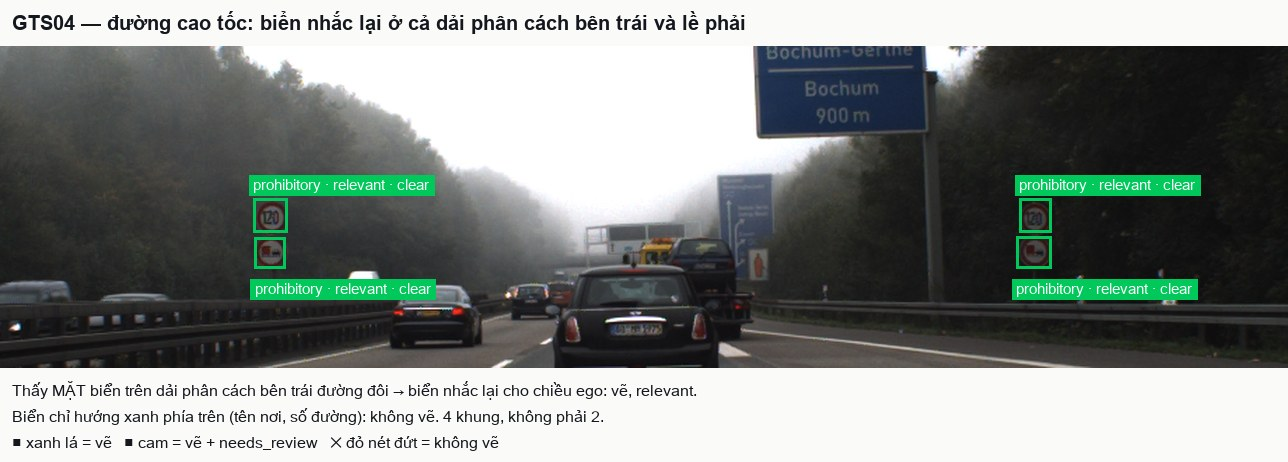
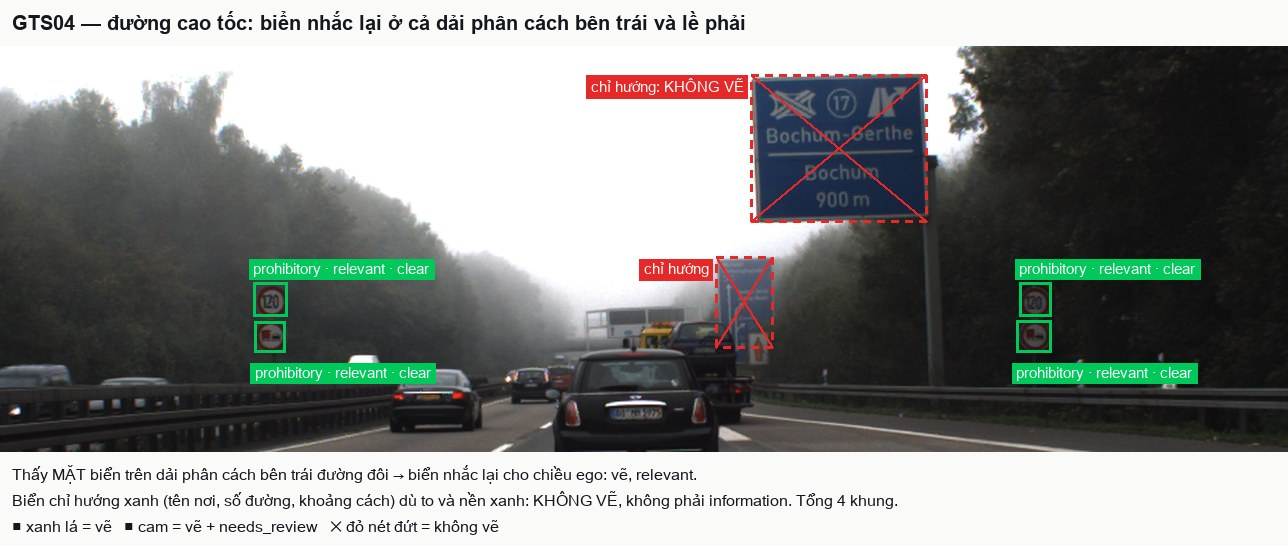
Day 9 project submission

diff --git a/guideline-challenge/project/02_guideline.md b/guideline-challenge/project/02_guideline.md
@@ -1,6 +1,6 @@
 # Annotation guideline — Gắn nhãn biển báo giao thông theo nhóm chức năng
 
-**Version:** v2
+**Version:** v3
 
 <!--
 v0 = chưa có bản nháp. Đổi dòng Version ở trên thành v1 khi xong bản nháp đầu, v2 sau calibration, v3 sau blind
@@ -97,7 +97,8 @@ gom theo chức năng để không phụ thuộc quốc gia.
    đặt độc lập ở đường cong → `supplementary`.
 2. Hình **bát giác**, tam giác **đỉnh hướng xuống**, hoặc **hình thoi** → `priority`.
 3. Có **viền đỏ tròn**, hoặc là **tròn trắng có vạch chéo đen/xám** → `prohibitory` (viền đỏ thắng nền xanh). Tấm chia
-   làn chứa vòng tròn viền đỏ cũng vào đây.
+   làn chứa vòng tròn viền đỏ cũng vào đây. Dòng này **chỉ áp cho hình tròn**: biển STOP bát giác đỏ và tam giác
+   nhường đường viền đỏ đã dừng ở dòng 2 (`priority`), dù có nhiều màu đỏ.
 4. **Nền xanh** (tròn, hoặc chữ nhật trong danh sách `mandatory` ở 4.1), kể cả khi có **vạch chéo đỏ** (hết hiệu lệnh)
    → `mandatory`. Biển bắt đầu/hết khu dân cư cũng vào đây dù có chữ tên nơi.
 5. Tam giác **đỉnh hướng lên**, viền đỏ (nền trắng hoặc vàng) → `danger`.
@@ -108,6 +109,9 @@ gom theo chức năng để không phụ thuộc quốc gia.
    trắng khác → `mandatory`; nền vàng chữ đen → `danger`; nền xanh chữ trắng → `information` nếu không phải chỉ hướng.
 9. Không khớp dòng nào ở trên, hoặc nhìn không rõ hình/màu → `unknown` và bật `needs_review`.
 
+**Ba biển màu đỏ dễ nhầm:** bát giác đỏ (STOP) → `priority`; tam giác đỉnh xuống viền đỏ (nhường đường) →
+`priority`; tròn viền đỏ → `prohibitory`. Đếm cạnh trước khi nhìn màu.
+
 Dùng **hình dạng trước, màu sau**. Màu dễ sai khi lóa, tối, phai; hình dạng ổn định hơn. Hai tấm chữ nhật xanh khó
 phân biệt `mandatory` với `information` (ví dụ R.411 hướng đi từng làn và I.407 đường một chiều): phân vân thì chọn
 nhóm nghiêng tới nhất và bật `needs_review`.
@@ -116,6 +120,11 @@ nhóm nghiêng tới nhất và bật `needs_review`.
 
 **Ego** là xe gắn camera. **Làn ego** là làn nằm dưới giữa mép dưới ảnh (camera đặt giữa xe), xác định bằng vạch kẻ
 đường hai bên điểm đó. **Đường đi của ego** là làn ego đi thẳng tới trước; bài này không biết ego sẽ rẽ hay không.
+
+**Giả định cố định:** ảnh tĩnh không cho biết ego rẽ hay đi thẳng, nên **luôn giả định ego đi thẳng theo làn hiện
+tại**. Biển đặt trên đường đi thẳng đó (bên phải, bên trái, phía trên, trên đảo ngay trước ego) → xét theo bảng dưới.
+Biển chỉ nằm trên nhánh rẽ (góc đường nhánh, quay mặt vào nhánh) → `not_relevant` nếu thấy rõ nó quay vào nhánh,
+không thì `uncertain` + `needs_review`. Không tự đoán ego sẽ rẽ vào nhánh nào.
 
 Nguyên tắc gốc (QCVN 41:2024 Điều 15): biển nguy hiểm và biển chỉ dẫn có hiệu lực trên **mọi làn của chiều xe chạy**;
 biển cấm và biển hiệu lệnh áp dụng cho mọi làn **hoặc chỉ một số làn** nếu biển cho biết như vậy. Do đó: biển thuộc
@@ -186,6 +195,7 @@ nhánh, ở phía bên kia đường, biển tạm công trường (trên giá c
 | Tình huống | Cách làm |
 |---|---|
 | Chỉ là một **chấm màu**, không nhận ra được là tấm biển (thường cạnh dưới khoảng 12 px) | **Không vẽ** |
+| Không chắc có dưới 12 px không | Vẽ thử khung ôm vật đó, xem kích thước khung trong CVAT (rê chuột / bảng thông tin object); cạnh ngắn dưới 12 px thì xoá khung. Đo trên ảnh gốc, không ước lượng bằng mắt khi đang zoom |
 | Nhận ra là **tấm biển**, thấy rõ hình và màu | Vẽ khung, chọn nhóm theo 4.2, `visibility = clear` |
 | Nhận ra là tấm biển nhưng **không rõ hình hoặc màu** (nhỏ, xa, mờ) | Vẽ khung, `unknown`, `visibility = poor`, bật `needs_review` |
 | **Bị che dưới khoảng 1/4** | Vẽ khung phần thấy, chọn nhóm, `visibility = clear` |
@@ -242,7 +252,7 @@ Ví dụ dùng ảnh split `example` và `calibration` (không dùng ảnh blind
 |---|---|---|---|
 | GTS06 | Biển tròn viền đỏ "30" bên phải đường ego, **hai tấm phụ** bên dưới (mũi tên phạm vi + khoảng cách; giờ áp dụng); đèn giao thông bị cắt ở mép trên phải | 3 khung riêng: `prohibitory`, `supplementary`, `supplementary`; cả ba `relevant`, `clear`. Khung biển chính không lấy tấm phụ và cột. Đèn: không vẽ | 2, 3, 4.2 (dòng 1, 3), 4.3 (biển phụ theo biển chính), 5 |
 | GTS05 | Góc phố: biển vuông xanh người đi bộ và biển tròn "30" ở góc đường nhánh bên trái; hai tấm xám trên cột bên phải là **mặt sau** biển; biển quán cà phê, biển tên phố | 2 khung: `information` và `prohibitory`, cả hai `uncertain` (không rõ ego đi thẳng hay rẽ vào đường nhánh), `clear`, bật `needs_review`. Mặt sau biển, biển quán, biển tên phố: không vẽ | 4.2 (dòng 3, 6), 4.3 (dòng 9), 5 |
-| GTS04 | Cao tốc có sương mù; cặp biển "120" + cấm xe tải vượt ở **cả** dải phân cách bên trái và lề phải; biển chỉ hướng xanh phía trên | 4 khung `prohibitory`, tất cả `relevant`, `clear`. Biển chỉ hướng: không vẽ | 2, 4.2 (dòng 3, 7), 4.3 (dòng 8) |
+| GTS04 | Cao tốc có sương mù; cặp biển "120" + cấm xe tải vượt ở **cả** dải phân cách bên trái và lề phải; biển chỉ hướng xanh phía trên | 4 khung `prohibitory`, tất cả `relevant`, `clear`. Hai tấm chỉ hướng xanh (tên nơi "Bochum", số lối ra, "900 m"): **không vẽ**, dù to, rõ và nền xanh | 2, 4.2 (dòng 3, 7), 4.3 (dòng 8) |
 | GTS03 | Ngã tư phố: hình thoi vàng; tam giác người đi bộ; biển tròn "20" kèm tấm mũi tên rẽ bên dưới; biển tròn xanh mũi tên phía trái | `priority` (hình thoi), `danger` (tam giác), `prohibitory` ("20"), `supplementary` (tấm mũi tên, khung riêng), `mandatory` (tròn xanh). Không dồn biển lạ vào một nhóm chung | 2, 4.2 (dòng 1–5) |
 | GTS07 | Cầu đang thi công, đường ướt; một chấm tròn đỏ khoảng 10 px ở giữa ảnh; hai tấm vuông nhỏ bên trái, nhận ra là tấm biển nhưng không đọc được; rào chắn sọc đỏ trắng bên phải | Chấm đỏ: không vẽ. Hai tấm vuông: mỗi tấm một khung `unknown`, `uncertain`, `poor`, bật `needs_review`. Rào chắn: không vẽ | 5, 6, 4.4 |
 
@@ -252,7 +262,7 @@ Ví dụ dùng ảnh split `example` và `calibration` (không dùng ảnh blind
 
 ![GTS07 — biển rất nhỏ và vật không phải biển](guideline_assets/ex_GTS07_bien_nho.jpg)
 
-![GTS04 — biển nhắc lại ở cả hai bên đường](guideline_assets/ex_GTS04_bien_nhac_lai.jpg)
+![GTS04 — biển nhắc lại ở cả hai bên đường, tấm chỉ hướng không vẽ](guideline_assets/ex_GTS04_bien_nhac_lai.jpg)
 
 Các tình huống chưa có ảnh ví dụ (nhường đường, biển dừng, biển chỉ hướng xếp chồng, biển bị che) dùng bảng 4.1,
 thứ tự 4.2 và hai sơ đồ ở mục 4.
@@ -279,6 +289,10 @@ thứ tự 4.2 và hai sơ đồ ở mục 4.
 14. **Đánh `not_relevant` cho biển bên trái đường.** Biển có thể đặt bổ sung bên trái hoặc trên cao cho cùng chiều
     (QCVN 41:2024 Điều 16.2); vị trí trái/phải một mình không đủ để kết luận.
 15. **Bỏ sót biển nhắc lại bên trái** trên đường đôi / cao tốc (GTS04): quét cả dải phân cách giữa, không chỉ lề phải.
+16. **Chọn `prohibitory` cho biển STOP vì biển màu đỏ.** Bát giác (STOP) và tam giác đỉnh xuống (nhường đường) luôn là
+    `priority` (4.2 dòng 2). Đây là lỗi critical: hệ thống sẽ không biết phải dừng.
+17. **Gọi cụm biển chỉ hướng xếp chồng là `information`.** Tấm có tên nơi, số đường, khoảng cách tới nơi → không vẽ,
+    kể cả khi nền xanh và rất to (GTS04). `information` chỉ dành cho tấm có **ký hiệu** trong danh sách 4.1.
 
 ## Self-QC trước khi export
 
@@ -288,5 +302,7 @@ Kiểm từng ảnh trước khi export; còn sai một dòng thì sửa rồi m
 - [ ] Khung `sign_group = unknown` thì `visibility` là `partial` hoặc `poor`, và `needs_review` bật.
 - [ ] Khung `ego_relevant = uncertain` thì `needs_review` bật.
 - [ ] Biển đường nhánh, biển bị che, biển mờ đã đổi khỏi mặc định `relevant` / `clear` nếu cần (4.3, 4.4).
+- [ ] Ảnh ngược sáng, lóa, ban đêm, sương mù dày: mọi khung bị ảnh hưởng có `visibility` là `poor`, không để `clear`.
+- [ ] Mọi biển bát giác / tam giác đỉnh xuống có `sign_group = priority`.
 - [ ] Đã quét cả lề phải, dải phân cách / lề trái, phía trên đường và phía xa ở cỡ gốc.
 - [ ] Biển phụ là khung riêng; khung biển chính không lấy cột hay tấm phụ.

diff --git a/guideline-challenge/project/07_blind_handoff/peer_feedback.md b/guideline-challenge/project/07_blind_handoff/peer_feedback.md
@@ -3,21 +3,43 @@
 Phần 1 do **nhóm peer** trả lời (gửi kèm file export). Phần 2 do **nhóm owner** điền. Thay mọi placeholder mới
 là xong (gate G5).
 
-- **Nhóm peer:** TODO
-- **Người label blind:** TODO
+- **Nhóm peer:** nhóm Traffic Light (bài đèn giao thông: trạng thái màu + relevance), cặp peer với DeadlineDodgers
+- **Người label blind:** an.holyann, an271220059_ (export `peer_output/annotations-2.xml`, 5 ảnh GTS09, GTS18, GTS23,
+  GTS26, GTS27)
 
 ## 1. Peer trả lời
 
-1. Rule nào rõ nhất / giúp quyết định nhanh nhất? TODO
-2. Rule nào mơ hồ hoặc phải tự suy diễn? TODO
-3. Sample nào khiến guideline "vỡ"? TODO
-4. Attribute / default nào trong CVAT dễ gây thao tác sai? TODO
-5. Một thay đổi cụ thể giúp annotator mới ít hỏi hơn? TODO
+1. **Rule nào rõ nhất / giúp quyết định nhanh nhất?** Quy tắc nhận dạng nhóm biển theo hình học và màu sắc (Mục 4.1
+   & 4.2) rất rõ ràng: tam giác đỉnh lên là danger, tam giác đỉnh xuống / hình thoi là priority, viền đỏ là
+   prohibitory. Nguyên tắc "viền đỏ luôn thắng nền xanh" và "hình dạng trước, màu sắc sau" giúp quyết định sign_group
+   cực kỳ nhanh và dứt khoát.
+2. **Rule nào mơ hồ hoặc phải tự suy diễn?** Quy tắc xác định ego_relevant (Mục 4.3) tại các nút giao có góc nhìn chéo
+   hoặc đường nhánh: người vẽ không biết xe sẽ đi thẳng hay rẽ nên rất khó phân định dứt khoát giữa relevant,
+   not_relevant hay phải chọn uncertain. Ngoài ra, ranh giới kích thước biển quá xa (dưới 12 px thì bỏ qua, còn trên
+   12 px mờ thì gán unknown) vẫn mang tính cảm tính khi zoom ảnh.
+3. **Sample nào khiến guideline "vỡ"?** Ảnh có cụm biển tên địa danh/chỉ hướng xếp chồng nhau (như cụm biển
+   Dortmund/Hattingen): nếu người vẽ không đọc rất kỹ mục loại trừ (Mục 5) thì rất dễ nhầm cụm này thành biển chỉ dẫn
+   information. Tương tự, các biển ở góc đường nhánh rất dễ gây bất đồng về việc xe có rẽ vào đó hay không.
+4. **Attribute / default nào trong CVAT dễ gây thao tác sai?** Giá trị mặc định của ego_relevant để sẵn là relevant
+   và visibility để sẵn là clear rất dễ khiến người vẽ quên không đổi sang not_relevant (khi gặp biển đường nhánh)
+   hoặc quên chọn poor (khi biển ở xa/bị mờ).
+5. **Một thay đổi cụ thể giúp annotator mới ít hỏi hơn?** Nên bổ sung thêm 1 hình ảnh ví dụ trực quan trong Mục 9
+   gạch chéo đỏ cụm biển tên địa danh xếp chồng (chỉ hướng đường) để người vẽ thấy ngay là KHÔNG VẼ mà không cần phải
+   hỏi lại. Đồng thời, có thể cân nhắc để ego_relevant dạng bắt buộc chọn thay vì để mặc định là relevant để tránh lỗi
+   bỏ quên.
 
 ## 2. Owner phân loại
 
-Owner không tranh luận để bảo vệ guideline. Mỗi feedback và mỗi decision peer làm sai được xếp vào một hướng xử lý.
+Kết quả chấm (`transfer_score.csv`, `gts_summary.md`): **GTS 84.8** — D 12/14, C 2/3 (1 critical escape), G 1/1,
+0 câu hỏi trong blind window. Owner không tranh luận để bảo vệ guideline. Mỗi feedback và mỗi decision peer làm sai
+được xếp vào một hướng xử lý.
 
 | Feedback / decision sai | Nguyên nhân (guideline gap / data ambiguity / execution error) | Xử lý (accept + revise / reject with evidence / add escalation rule) | Bằng chứng |
 |---|---|---|---|
-| TODO | TODO | TODO | TODO |
+| **GTS23 d1 (critical):** hai biển STOP gán `prohibitory` thay vì `priority` | Guideline gap. Bát giác → `priority` có ở 4.1 và 4.2 dòng 2, nhưng biển STOP toàn màu đỏ nên người vẽ dễ áp dòng 3 ("viền đỏ") theo màu; mục 10 không cảnh báo lỗi này, và bảng hình dạng (`sign_group_legend.png`) không đi theo gói blind | Accept + revise: thêm lỗi thường gặp "STOP / nhường đường màu đỏ vẫn là `priority`, không phải `prohibitory`"; ghi rõ ở 4.2 dòng 3 "trừ bát giác (đã xử lý ở dòng 2)"; đưa bảng hình dạng dạng chữ vào guideline | `transfer_score.csv` GTS23 d1; peer_evidence `sign_group=prohibitory ×2`; peer câu 1 chỉ nhắc tam giác ngược / hình thoi là priority |
+| **GTS27 d2:** biển ngược sáng để `visibility=clear` thay vì `poor` | Guideline gap (default). Mục 6 ghi ngược sáng → `poor`, nhưng default `clear` làm lỗi quên đổi không lộ ra; chính peer nêu rủi ro này ở câu 4 | Accept + revise: thêm dòng Self-QC "ảnh ngược sáng / lóa / đêm → `visibility` không được `clear`"; cân nhắc đổi default `visibility` về `__undefined__` ở lượt gán nhãn tiếp theo | `transfer_score.csv` GTS27 d2; calibration GTS01/GTS10/GTS11 cũng có lỗi quên attribute |
+| Feedback 2: `ego_relevant` ở nút giao / đường nhánh phải tự suy diễn vì không biết xe đi thẳng hay rẽ | Data ambiguity (ảnh tĩnh không có lộ trình) + guideline gap (thiếu câu chốt) | Add escalation rule: ghi rõ ở 4.3 "không biết ego đi thẳng hay rẽ → giả định ego đi thẳng theo làn hiện tại; biển chỉ áp dụng cho hướng rẽ → `uncertain` + `needs_review`" | Peer câu 2, câu 3; peer vẫn làm đúng các dòng ego_relevant trong gold (GTS18 d3, GTS23 d2) |
+| Feedback 2: ngưỡng 12 px / chấm màu mang tính cảm tính khi zoom | Guideline gap | Accept + revise: định nghĩa đo bằng khung đã vẽ (cạnh ngắn của khung ở zoom 100%), thêm ví dụ crop một biển vẽ và một chấm không vẽ (GTS07) | Peer câu 2; calibration report bảng "Hướng xử lý v2" |
+| Feedback 3: cụm biển chỉ hướng xếp chồng dễ nhầm thành `information` | Guideline gap (thiếu ví dụ trực quan) | Accept + revise: thêm ảnh ví dụ có gạch chéo đỏ cụm biển chỉ hướng xếp chồng (dùng ảnh example/calibration, ví dụ GTS04 đã có tấm chỉ hướng) và câu "biển có tên nơi / số đường → không vẽ, kể cả khi nền xanh" | Peer câu 3, câu 5; peer vẫn làm đúng GTS09 d1 (không vẽ 6 tấm chỉ đường) |
+| Feedback 4–5: default `relevant` / `clear` dễ quên đổi; đề xuất bắt buộc chọn `ego_relevant` | Guideline gap (thiết kế default) | Accept + revise: v3 đổi default `ego_relevant` và `visibility` về `__undefined__` (bắt buộc chọn) cho lượt gán nhãn tiếp theo; Self-QC lọc `__undefined__`. Không đổi schema của blind đã freeze | Peer câu 4, 5; GTS27 d2; calibration có 4+ khung bỏ trống attribute |
+| Peer vẽ thêm biển tròn xanh nhỏ ở GTS09 [353,548,369,565] (`mandatory`, `poor`) không có trong gold | Data ambiguity (gold không có dòng cho biển này) | Reject with evidence: không trừ điểm; biển nhận ra là tấm biển nên vẽ là đúng mục 6 | `transfer_score.csv` GTS09 d3 note |

diff --git a/guideline-challenge/project/07_blind_handoff/gts_summary.md b/guideline-challenge/project/07_blind_handoff/gts_summary.md
@@ -1,0 +1,13 @@
+# Guideline Transferability Score
+
+| Chỉ số | Điểm | Đúng / Tổng |
+|---|---:|---:|
+| D · Decision accuracy | 85.7 | 12 / 14 |
+| C · Critical decisions | 66.7 | 2 / 3 |
+| G · Geometry compliance | 100.0 | 1 / 1 |
+| I · Independence | 100.0 | 0 câu hỏi |
+| **GTS** | **84.8** | 0.60D + 0.20C + 0.10G + 0.10I |
+
+- Critical escapes: 1
+- Frozen at: 2026-09-26T05:57:30Z
+- GTS đo khả năng truyền đạt của specification, không đo kỹ năng tổng quát của peer annotator.
